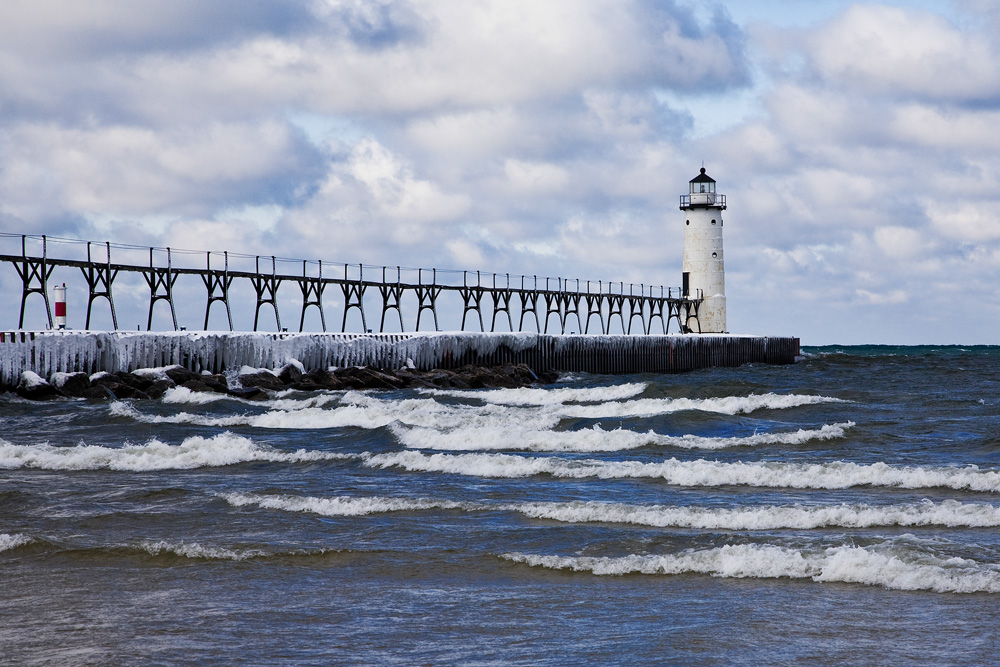
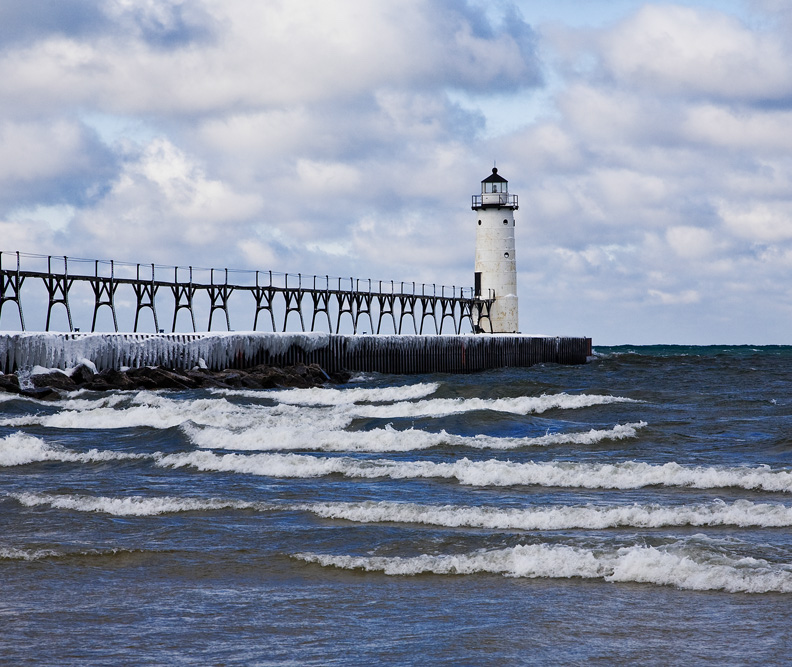
lighthouse in every view

diff --git a/style.css b/style.css
@@ -31,7 +31,7 @@ body * {
 .ManisteeImage {
   background-image: url("./manistee.jpg");
   background-repeat: no-repeat;
-  background-position: right;
+  background-position: center;
   background-clip: padding-box;
   width: 80%;
   height: 25em;
